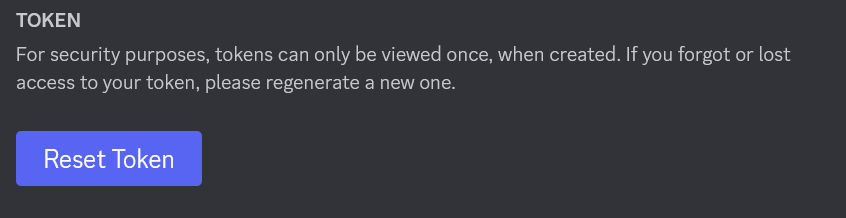
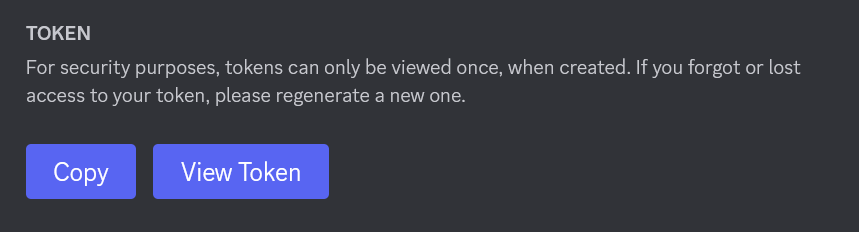
show token after copy changes

diff --git a/docs/guide/quickstart.rst b/docs/guide/quickstart.rst
@@ -33,8 +33,11 @@ You will need a bot application before being able to run a bot. A step-by-step t
 5. If you need these intents, scroll down and click on these check boxes:
     .. image:: /images/discord_privileged_intents.png
 
-6. Copy your bot token here:
+6. Your bot token will only be retrievable upon creation and looks like this:
     .. image:: /images/discord_bot_token.png
+
+6a. Otherwise it will look like this:
+    .. image:: /images/discord_bot_token_no_copy.png
 
 .. danger::
 
